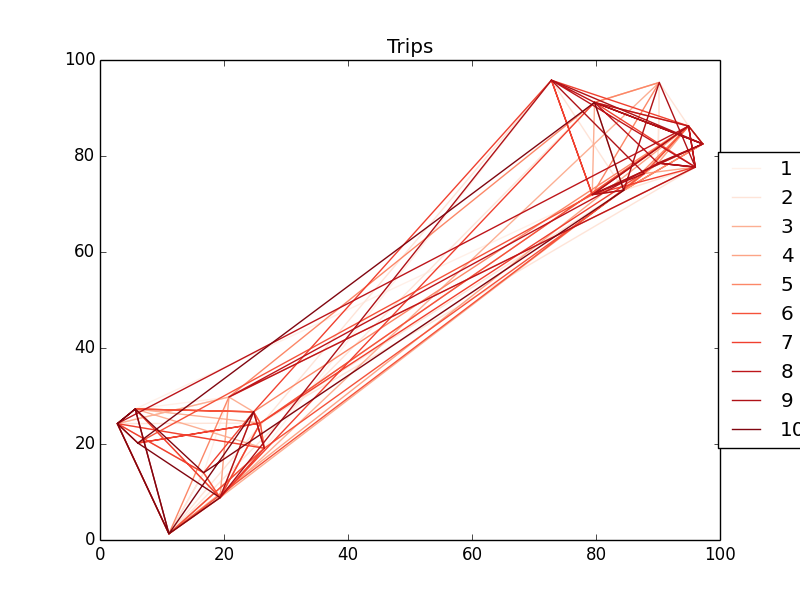
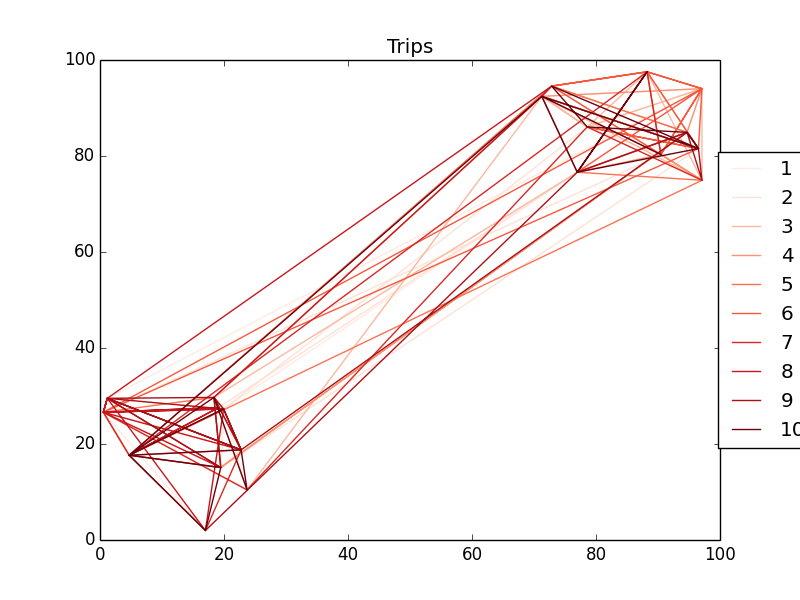
ga

Changed region(s): [[0.125, 0.12, 0.9062, 0.9]]

diff --git a/DataGenerator.py b/DataGenerator.py
@@ -269,22 +269,25 @@ class DataGenerator:
         tx = self.requests[x - 1][0]
         tnx = self.requests[x - 1][2]
 
-        idx = 0  # insert 'x' to trip
-        while idx < len(tripi):
+        idx = 0
+        while idx < len(tripi): # insert 'x' to trip
             r = tripi[idx]
             t = self.requests[abs(r) - 1][(abs(r) - r) // abs(r)]
             if t > tx:
                 tripi = tripi[:idx] + [x] + tripi[idx:]
                 break
             idx += 1
-        idx = 0  # insert '-x' to trip
-        while idx < len(tripi):
+        if idx == len(tripi):
+            tripi = tripi[:] + [x]
+
+        idx = len(tripi)-1
+        while idx > -1: # insert '-x' to trip
             r = tripi[(len(tripi)-1)-idx]
             t = self.requests[abs(r) - 1][(abs(r) - r) // abs(r)]
             if tnx > t:
                 tripi = tripi[:idx] + [-x] + tripi[idx:]
                 break
-            idx += 1
+            idx -= 1
         # add selected request to trip1
 
         shuttlei = Shuttle(shuttle.loc, tripi, shuttle.before, shuttle.t)
@@ -341,7 +344,6 @@ class DataGenerator:
                             schedule.rejects.remove(r)
                     elif r not in schedule.rejects :
                         schedule.rejects.append(r)
-                        # print('Temporary reject the request {}'.format(i))
 
         # optimize
         self.optimize(routes)
@@ -365,7 +367,6 @@ class DataGenerator:
             jSlack = []
             if r < 0 : continue
             j, l = 0, len(routes)
-            random.shuffle(routes)
             while j < l :
                 shuttle = routes[j]
                 route = shuttle.trip
@@ -381,7 +382,6 @@ class DataGenerator:
                     ableS = self.shuttleAbleS(nshuttle)
                     if ableS[0] :
                         jSlack.append((j, ableS[1]))
-
                 j += 1
 
             if len(jSlack) < 1:
@@ -396,7 +396,6 @@ class DataGenerator:
                             schedule.rejects.remove(r)
                     elif r not in schedule.rejects :
                         schedule.rejects.append(r)
-                        # print('Temporary reject the request {}'.format(i))
 
             else : # available, So find Maximum Slack Trip
                 jSlack.sort(key = lambda js : -js[1])
@@ -418,62 +417,52 @@ class DataGenerator:
 
     # _______________________GA_________________________
     def generateGA(self, schedule, t): # Genetic Algorithm
+        if t==0 : return self.generateLLF(schedule, t)
         already = []
-        for shuttle in schedule.shuttles :
+        for shuttle in schedule.shuttles:
             already += shuttle.trip + shuttle.before
 
         reqs = list(enumerate(self.requests[:]))
-        requests = list(filter(lambda req : ((req[0]+1) not in already) and (req[1][4] <= t), reqs))
+        requests = list(filter(lambda req: ((req[0] + 1) not in already) and (req[1][4] <= t), reqs))
         # request[0] = number of request
         # request[1] = (timeS, stationS, timeD, stationD, timeO)
 
         routes = copy.deepcopy(schedule.shuttles)
 
-        L = self.makeL(requests) # early deadline sorting
+        L = self.makeL(requests)  # early deadline sorting
         for r in L:
             jSlack = []
-            if r < 0 : continue
+            if r < 0: continue
             j, l = 0, len(routes)
-            random.shuffle(routes)
-            while j < l :
+            while j < l:
                 shuttle = routes[j]
-                route = shuttle.trip
-                mutab = True
-                for rr in route: # checking available
-                    if self.CT[abs(r)-1][abs(rr)-1] < 0:
-                        mutab = False
-                        break
-                if mutab: # Mutually available
-                    temp = route + [r, -r]
-                    tript = self.subL(self.L, temp)
+                tript = self.insert(shuttle, r)
+
+                if shuttle.trip != tript:  # insert available
                     nshuttle = Shuttle(shuttle.loc, tript, shuttle.before[:], t)
                     ableS = self.shuttleAbleS(nshuttle)
-                    if ableS[0] :
+                    if ableS[0]:
                         jSlack.append((j, ableS[1]))
-
                 j += 1
 
             if len(jSlack) < 1:
-                if len(routes) >= self.shutN :
-                    if r not in schedule.rejects :
+                if len(routes) >= self.shutN:
+                    if r not in schedule.rejects:
                         schedule.rejects.append(r)
-                else : # there are new shuttle
+                else:  # there are new shuttle
                     shuttle = Shuttle(self.depot, [r, -r], [], t)
-                    if self.shuttleAbleS(shuttle)[0] :
+                    if self.shuttleAbleS(shuttle)[0]:
                         routes.append(shuttle)
                         if r in schedule.rejects:
                             schedule.rejects.remove(r)
-                    elif r not in schedule.rejects :
+                    elif r not in schedule.rejects:
                         schedule.rejects.append(r)
-                        # print('Temporary reject the request {}'.format(i))
 
-            else : # available, So find Maximum Slack Trip
-                jSlack.sort(key = lambda js : -js[1])
+            else:  # available, So find Maximum Slack Trip
+                jSlack.sort(key=lambda js: -js[1])
                 j = jSlack[0][0]
                 shuttle = routes[j]
-                route = shuttle.trip
-                temp = route + [r, -r]
-                tript = self.subL(self.L, temp)
+                tript = self.insert(shuttle, r)
 
                 nshuttle = Shuttle(shuttle.loc, tript, shuttle.before[:], t)
                 routes[j] = nshuttle
@@ -484,3 +473,85 @@ class DataGenerator:
         # optimize
         self.optimize(routes)
         return Schedule(routes, schedule.rejects)
+
+
+    def insert(self, shuttle, x):
+        tripi = shuttle.trip[:]
+        tx = self.requests[x - 1][0]
+        tnx = self.requests[x - 1][2]
+
+        idx = 0
+        while idx < len(tripi): # insert 'x' to trip
+            r = tripi[idx]
+            t = self.requests[abs(r) - 1][(abs(r) - r) // abs(r)]
+            if t > tx:
+                tripi = tripi[:idx] + [x] + tripi[idx:]
+                break
+            idx += 1
+        if idx == len(tripi) :
+            tripi = tripi[:] + [x]
+
+        idx = len(tripi) - 1
+        while idx > -1: # insert '-x' to trip
+            r = tripi[(len(tripi)-1)-idx]
+            t = self.requests[abs(r) - 1][(abs(r) - r) // abs(r)]
+            if tnx > t:
+                tripi = tripi[:idx] + [-x] + tripi[idx:]
+                break
+            idx -= 1
+        # add selected request to trip1
+
+        shuttlei = Shuttle(shuttle.loc, tripi, shuttle.before, shuttle.t)
+        if self.shuttleAbleS(shuttlei)[0]:
+            return tripi
+        else : return shuttle.trip
+
+    def insertMS(self, shuttle, x, t):
+        tripi = shuttle.trip[:]
+        tx = self.requests[x - 1][0]
+        tnx = self.requests[x - 1][2]
+        xable = []
+        nxable =[]
+
+        idx = 0
+        while idx < len(tripi): # insert 'x' to trip
+            r = tripi[idx]
+            t = self.requests[abs(r) - 1][(abs(r) - r) // abs(r)]
+            if t > tx:
+                xable.append(idx)
+            idx += 1
+        if len(xable) < 1 :
+            xable.append(len(tripi))
+
+        idx = len(tripi) - 1
+        while idx > -1: # insert '-x' to trip
+            r = tripi[(len(tripi)-1)-idx]
+            t = self.requests[abs(r) - 1][(abs(r) - r) // abs(r)]
+            if tnx > t:
+                nxable.append(idx)
+            idx -= 1
+
+        # add selected request to trip1
+        position = []
+        if len(nxable) < 1:
+            nxable.append(len(tripi)+1)
+        else :
+            for xidx in xable :
+                for nxidx in nxable:
+                    if nxidx < xidx : continue
+
+                    temp = tripi[:xidx] + [x] + tripi[xidx:nxidx] + [-x] + tripi[nxidx:]
+                    nshuttle = Shuttle(shuttle.loc, temp, shuttle.before[:], t)
+                    ableS = self.shuttleAbleS(nshuttle)
+
+                    if ableS[0] : # available trip
+                        position.append(((xidx, nxidx), ableS[1]))
+            position.sort(key = lambda ps : -ps[1])
+            pos = position[0][0]
+                                    
+
+
+        shuttlei = Shuttle(shuttle.loc, tripi, shuttle.before, shuttle.t)
+        if self.shuttleAbleS(shuttlei)[0]:
+            return tripi
+        else : return shuttle.trip

diff --git a/Simulator.py b/Simulator.py
@@ -141,10 +141,10 @@ class Simulator:
         for shuttle in schedule.shuttles :
             left += shuttle.trip
 
-        print(serviced)
-        print(non)
-        print(left)
-        print(self.late)
+        print('{} serviced'.format(serviced))
+        print('{} non'.format(non))
+        print('{} left'.format(left))
+        print('{} late'.format(self.late))
 
         print('shutN {} / serv {} |non {} |left {} |late {}'.format(len(schedule.shuttles), len(serviced), len(non), len(left), len(self.late)))
         print('Reject')
@@ -175,4 +175,5 @@ if __name__ == "__main__":
         St = copy.deepcopy(S)
         St.__main__(i, 'EDF')
         St.__main__(i, 'LLF')
-        St.GA(St.MG, St.RG, St.DGGA)
+        St.__main__(i, 'GA')
+        #St.GA(St.MG, St.RG, St.DGGA)
